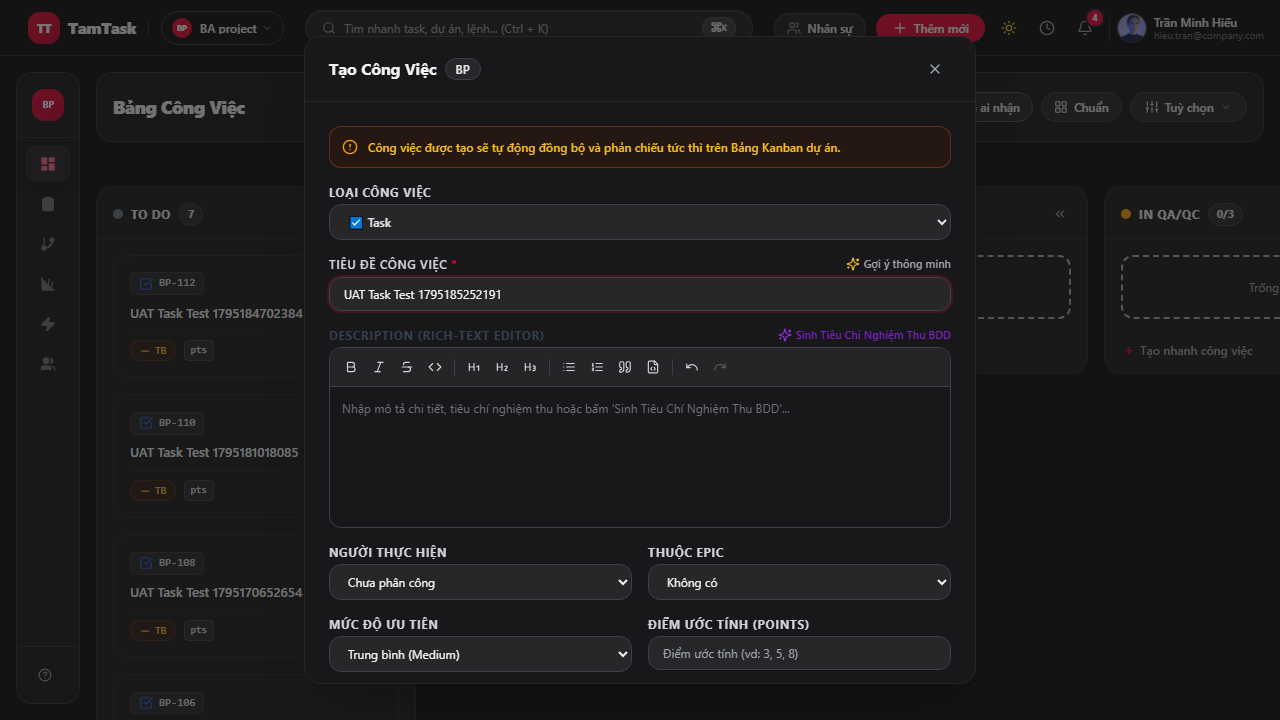
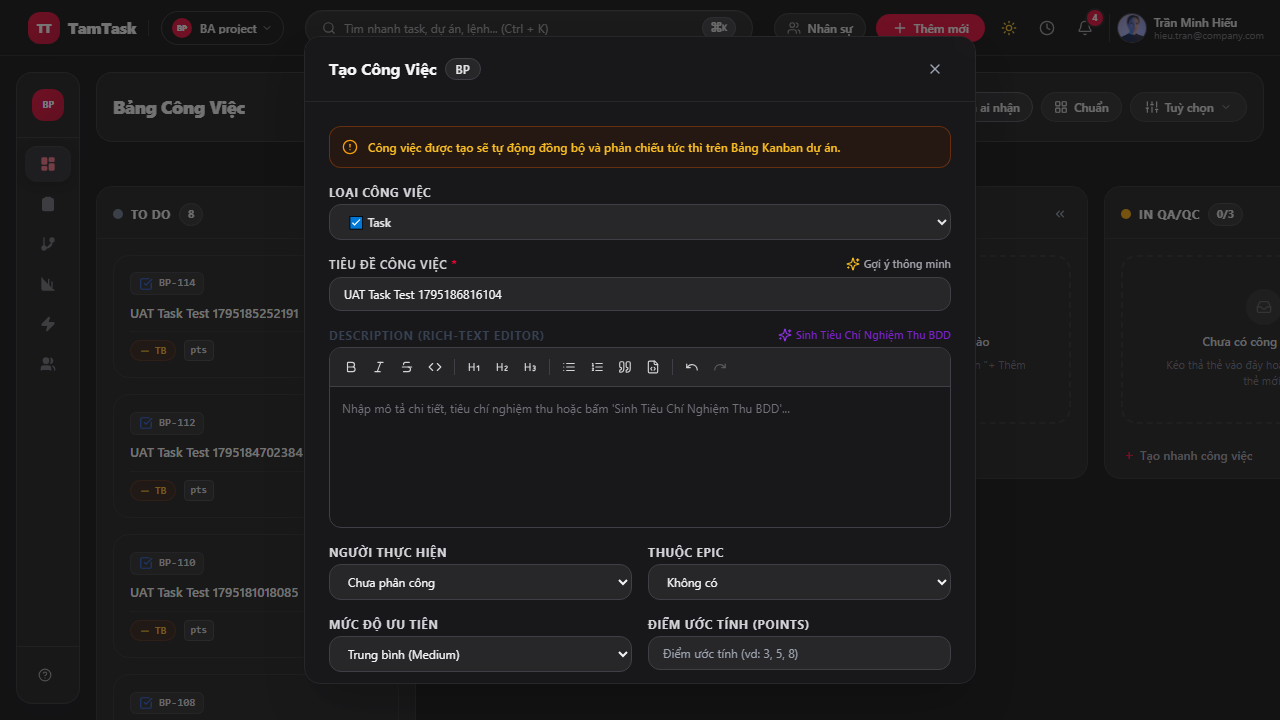
feat(mobile): add Kanban touch swipe gestures, drawer segmented tabs, empty state illustration, and Supabase connection pooler fix

diff --git a/src/components/jira/IssueDetailDrawer.tsx b/src/components/jira/IssueDetailDrawer.tsx
@@ -28,6 +28,7 @@ import {
 import { mouse1 } from "@/lib/mouse1";
 import { TiptapEditor } from "./TiptapEditor";
 import { notify } from "./Toast";
+import { haptic } from "@/lib/haptic";
 
 interface IssueDetailDrawerProps {
   issue: Issue | null;
@@ -66,6 +67,7 @@ export const IssueDetailDrawer: React.FC<IssueDetailDrawerProps> = ({
   const [newSubtaskTitle, setNewSubtaskTitle] = useState("");
   const [newComment, setNewComment] = useState("");
   const [activeTab, setActiveTab] = useState<"COMMENTS" | "HISTORY">("COMMENTS");
+  const [mobileDrawerTab, setMobileDrawerTab] = useState<"DETAILS" | "PROPERTIES" | "COMMENTS">("DETAILS");
   const [isTriaging, setIsTriaging] = useState(false);
   const [isUploading, setIsUploading] = useState(false);
   const [isGeneratingCriteria, setIsGeneratingCriteria] = useState(false);
@@ -82,6 +84,7 @@ export const IssueDetailDrawer: React.FC<IssueDetailDrawerProps> = ({
     setSubtasks(issue.subtasks || []);
     setNewSubtaskTitle("");
     setNewComment("");
+    setMobileDrawerTab("DETAILS");
     setIsLinkingOpen(false);
     setIsLoggingWork(false);
   }, [issue.id]);
@@ -751,11 +754,64 @@ export const IssueDetailDrawer: React.FC<IssueDetailDrawerProps> = ({
           </div>
         </div>
 
+        {/* Mobile Segmented Tab Navigation */}
+        <div className="md:hidden px-4 py-2 bg-slate-100/90 dark:bg-zinc-800/90 border-b border-slate-200 dark:border-zinc-800 flex items-center justify-around gap-1.5 shrink-0 select-none">
+          <button
+            type="button"
+            onClick={() => {
+              haptic.selection();
+              setMobileDrawerTab("DETAILS");
+            }}
+            className={`flex-1 py-1.5 px-2 rounded-xl text-xs font-semibold flex items-center justify-center gap-1.5 transition ${
+              mobileDrawerTab === "DETAILS"
+                ? "bg-white dark:bg-zinc-700 text-[#EE0033] shadow-xs font-bold"
+                : "text-slate-600 dark:text-zinc-400 hover:text-slate-900 dark:hover:text-zinc-200"
+            }`}
+          >
+            <FileText className="w-3.5 h-3.5" />
+            <span>Chi tiết</span>
+          </button>
+          <button
+            type="button"
+            onClick={() => {
+              haptic.selection();
+              setMobileDrawerTab("PROPERTIES");
+            }}
+            className={`flex-1 py-1.5 px-2 rounded-xl text-xs font-semibold flex items-center justify-center gap-1.5 transition ${
+              mobileDrawerTab === "PROPERTIES"
+                ? "bg-white dark:bg-zinc-700 text-[#EE0033] shadow-xs font-bold"
+                : "text-slate-600 dark:text-zinc-400 hover:text-slate-900 dark:hover:text-zinc-200"
+            }`}
+          >
+            <Tag className="w-3.5 h-3.5" />
+            <span>Thuộc tính</span>
+          </button>
+          <button
+            type="button"
+            onClick={() => {
+              haptic.selection();
+              setMobileDrawerTab("COMMENTS");
+            }}
+            className={`flex-1 py-1.5 px-2 rounded-xl text-xs font-semibold flex items-center justify-center gap-1.5 transition ${
+              mobileDrawerTab === "COMMENTS"
+                ? "bg-white dark:bg-zinc-700 text-[#EE0033] shadow-xs font-bold"
+                : "text-slate-600 dark:text-zinc-400 hover:text-slate-900 dark:hover:text-zinc-200"
+            }`}
+          >
+            <MessageSquare className="w-3.5 h-3.5" />
+            <span>Thảo luận ({issue.comments?.length || 0})</span>
+          </button>
+        </div>
+
         {/* Content Body (2 Columns) - Unified Single Scrollbar with 16px bottom padding */}
         <div className="flex-1 overflow-y-auto overflow-x-hidden">
           <div className="flex flex-col md:flex-row md:items-start min-h-full pb-4 w-full">
-            {/* Left Column: Title, Description, Subtasks, Comments (Strict min-w-0 and overflow-hidden to prevent layout blow-out) */}
-            <div className="flex-1 min-w-0 w-full p-6 pb-6 md:border-r border-gray-200 dark:border-zinc-800 space-y-6 bg-white dark:bg-zinc-900 flex flex-col justify-start overflow-hidden">
+            {/* Left Column: Title, Description, Subtasks, Comments */}
+            <div className={`flex-1 min-w-0 w-full p-4 sm:p-6 pb-6 md:border-r border-gray-200 dark:border-zinc-800 space-y-6 bg-white dark:bg-zinc-900 flex-col justify-start overflow-hidden ${
+              mobileDrawerTab === "PROPERTIES" ? "hidden md:flex" : "flex"
+            }`}>
+              {/* Details & Specifications Group */}
+              <div className={`space-y-6 ${mobileDrawerTab === "COMMENTS" ? "hidden md:block" : "block"}`}>
             {/* Title */}
             <div>
               <input
@@ -1297,9 +1353,10 @@ export const IssueDetailDrawer: React.FC<IssueDetailDrawerProps> = ({
                 </div>
               )}
             </div>
+          </div>
 
             {/* Activity & Comments Tabs */}
-            <div>
+            <div className={mobileDrawerTab === "DETAILS" ? "hidden md:block" : "block"}>
               <div className="flex items-center space-x-6 border-b border-gray-200 dark:border-zinc-800 mb-4">
                 <button
                   type="button"
@@ -1506,7 +1563,9 @@ export const IssueDetailDrawer: React.FC<IssueDetailDrawerProps> = ({
           </div>
 
           {/* Right Column: Metadata & Fast Actions (Unified Single Scroll, Full Stretch) */}
-          <div className="w-full md:w-80 lg:w-88 p-5 pb-16 bg-slate-50/70 dark:bg-zinc-900/60 md:border-l border-slate-200 dark:border-zinc-800 space-y-4 shrink-0 flex flex-col justify-start">
+          <div className={`w-full md:w-80 lg:w-88 p-4 sm:p-5 pb-16 bg-slate-50/70 dark:bg-zinc-900/60 md:border-l border-slate-200 dark:border-zinc-800 space-y-4 shrink-0 flex-col justify-start ${
+            mobileDrawerTab === "PROPERTIES" ? "flex" : "hidden md:flex"
+          }`}>
             {/* Auto Triage Action Button */}
             {!isViewer && (
               <div className="bg-white dark:bg-zinc-800/80 border border-slate-200 dark:border-zinc-700/80 rounded-2xl p-4 shadow-2xs space-y-2.5">

diff --git a/src/components/jira/KanbanBoard.tsx b/src/components/jira/KanbanBoard.tsx
@@ -22,6 +22,7 @@ import {
   ChevronsRight,
   LayoutGrid,
   AlignJustify,
+  Inbox,
 } from "lucide-react";
 import { mouse1 } from "@/lib/mouse1";
 import { triggerConfetti } from "@/lib/confetti";
@@ -74,6 +75,37 @@ export const KanbanBoard: React.FC<KanbanBoardProps> = ({
   const [isScrolledHeader, setIsScrolledHeader] = useState(false);
   const [mobileActiveColumn, setMobileActiveColumn] = useState<string>("ALL");
   const moreFiltersRef = React.useRef<HTMLDivElement>(null);
+
+  // Mobile horizontal touch swipe gestures to navigate columns smoothly
+  const touchStartX = React.useRef<number | null>(null);
+  const touchStartY = React.useRef<number | null>(null);
+
+  const handleBoardTouchStart = (e: React.TouchEvent) => {
+    touchStartX.current = e.touches[0].clientX;
+    touchStartY.current = e.touches[0].clientY;
+  };
+
+  const handleBoardTouchEnd = (e: React.TouchEvent) => {
+    if (touchStartX.current === null || touchStartY.current === null) return;
+    const deltaX = e.changedTouches[0].clientX - touchStartX.current;
+    const deltaY = e.changedTouches[0].clientY - touchStartY.current;
+
+    // Dominant horizontal swipe (>50px and x > y * 1.3)
+    if (mobileActiveColumn !== "ALL" && Math.abs(deltaX) > 50 && Math.abs(deltaX) > Math.abs(deltaY) * 1.3) {
+      const currIdx = statuses.findIndex((s) => s.id === mobileActiveColumn);
+      if (deltaX < 0 && currIdx >= 0 && currIdx < statuses.length - 1) {
+        // Swipe Left -> Next column
+        haptic.selection();
+        setMobileActiveColumn(statuses[currIdx + 1].id);
+      } else if (deltaX > 0 && currIdx > 0) {
+        // Swipe Right -> Prev column
+        haptic.selection();
+        setMobileActiveColumn(statuses[currIdx - 1].id);
+      }
+    }
+    touchStartX.current = null;
+    touchStartY.current = null;
+  };
 
   const [collapsedColIds, setCollapsedColIds] = useState<string[]>(() => {
     if (typeof window !== "undefined") {
@@ -888,6 +920,8 @@ export const KanbanBoard: React.FC<KanbanBoardProps> = ({
 
               {/* Status Columns Grid - columns expand full height, pinned horizontal scroll at bottom */}
               <div
+                onTouchStart={handleBoardTouchStart}
+                onTouchEnd={handleBoardTouchEnd}
                 className={`flex gap-4 pb-4 items-start ${
                   mobileActiveColumn === "ALL"
                     ? "min-w-max"
@@ -1053,8 +1087,16 @@ export const KanbanBoard: React.FC<KanbanBoardProps> = ({
                         ))}
 
                         {colIssues.length === 0 && dragOverCol !== col.id && (
-                          <div className="h-16 border-2 border-dashed border-gray-300/80 rounded-xl flex items-center justify-center text-xs text-gray-400">
-                            Trống
+                          <div className="py-8 px-4 border-2 border-dashed border-slate-200 dark:border-zinc-800 rounded-2xl flex flex-col items-center justify-center text-center gap-2 bg-slate-50/50 dark:bg-zinc-900/40">
+                            <div className="w-9 h-9 rounded-full bg-slate-100 dark:bg-zinc-800 flex items-center justify-center text-slate-400 dark:text-zinc-500">
+                              <Inbox className="w-4 h-4 opacity-70" />
+                            </div>
+                            <div className="text-xs font-semibold text-slate-600 dark:text-zinc-300">
+                              Chưa có công việc nào
+                            </div>
+                            <p className="text-[11px] text-slate-400 dark:text-zinc-500 max-w-[200px]">
+                              Kéo thả thẻ vào đây hoặc nhấn &quot;+ Thêm thẻ mới&quot;
+                            </p>
                           </div>
                         )}
                       </div>

diff --git a/tests/uat.spec.ts b/tests/uat.spec.ts
@@ -3,7 +3,34 @@ import path from "path";
 import fs from "fs";
 import { PrismaClient } from "@prisma/client";
 
-const prisma = new PrismaClient();
+const getTestDatabaseUrl = () => {
+  const url = process.env.DATABASE_URL;
+  if (!url) return undefined;
+  try {
+    const parsed = new URL(url);
+    if (parsed.hostname.includes("pooler.supabase.com")) {
+      parsed.port = "6543";
+      parsed.searchParams.set("pgbouncer", "true");
+      parsed.searchParams.set("connection_limit", "2");
+      return parsed.toString();
+    }
+    if (!parsed.searchParams.has("connection_limit")) {
+      parsed.searchParams.set("connection_limit", "2");
+      return parsed.toString();
+    }
+  } catch {
+    // Fallback
+  }
+  return url;
+};
+
+const prisma = new PrismaClient({
+  datasources: {
+    db: {
+      url: getTestDatabaseUrl(),
+    },
+  },
+});
 const SCREENSHOT_DIR = path.resolve(process.cwd(), "uat-reports/screenshots");
 if (!fs.existsSync(SCREENSHOT_DIR)) {
   fs.mkdirSync(SCREENSHOT_DIR, { recursive: true });
@@ -137,7 +164,7 @@ test.describe("TamTask Agile Hub - UAT Automation Test Suite (Plan.md)", () => {
     await expect(projectSwitcher).toBeVisible();
 
     // Kiểm tra có các cột trạng thái chuẩn Agile
-    const columnHeader = page.getByText("To do").or(page.getByText("In progress")).locator("visible=true").first();
+    const columnHeader = page.locator("text='To do' >> visible=true").or(page.locator("text='In progress' >> visible=true")).first();
     await expect(columnHeader).toBeVisible({ timeout: 15000 });
   });
 

diff --git a/src/lib/prisma.ts b/src/lib/prisma.ts
@@ -4,10 +4,36 @@ const globalForPrisma = globalThis as unknown as {
   prisma: PrismaClient | undefined;
 };
 
+const getDatabaseUrl = () => {
+  const url = process.env.DATABASE_URL;
+  if (!url) return undefined;
+  try {
+    const parsed = new URL(url);
+    if (parsed.hostname.includes("pooler.supabase.com")) {
+      parsed.port = "6543";
+      parsed.searchParams.set("pgbouncer", "true");
+      parsed.searchParams.set("connection_limit", "5");
+      return parsed.toString();
+    }
+    if (!parsed.searchParams.has("connection_limit")) {
+      parsed.searchParams.set("connection_limit", "5");
+      return parsed.toString();
+    }
+  } catch {
+    // Fallback if URL parsing fails
+  }
+  return url;
+};
+
 export const prisma =
   globalForPrisma.prisma ??
   new PrismaClient({
     log: process.env.NODE_ENV === "development" ? ["error", "warn"] : ["error"],
+    datasources: {
+      db: {
+        url: getDatabaseUrl(),
+      },
+    },
   });
 
 if (process.env.NODE_ENV !== "production") globalForPrisma.prisma = prisma;
